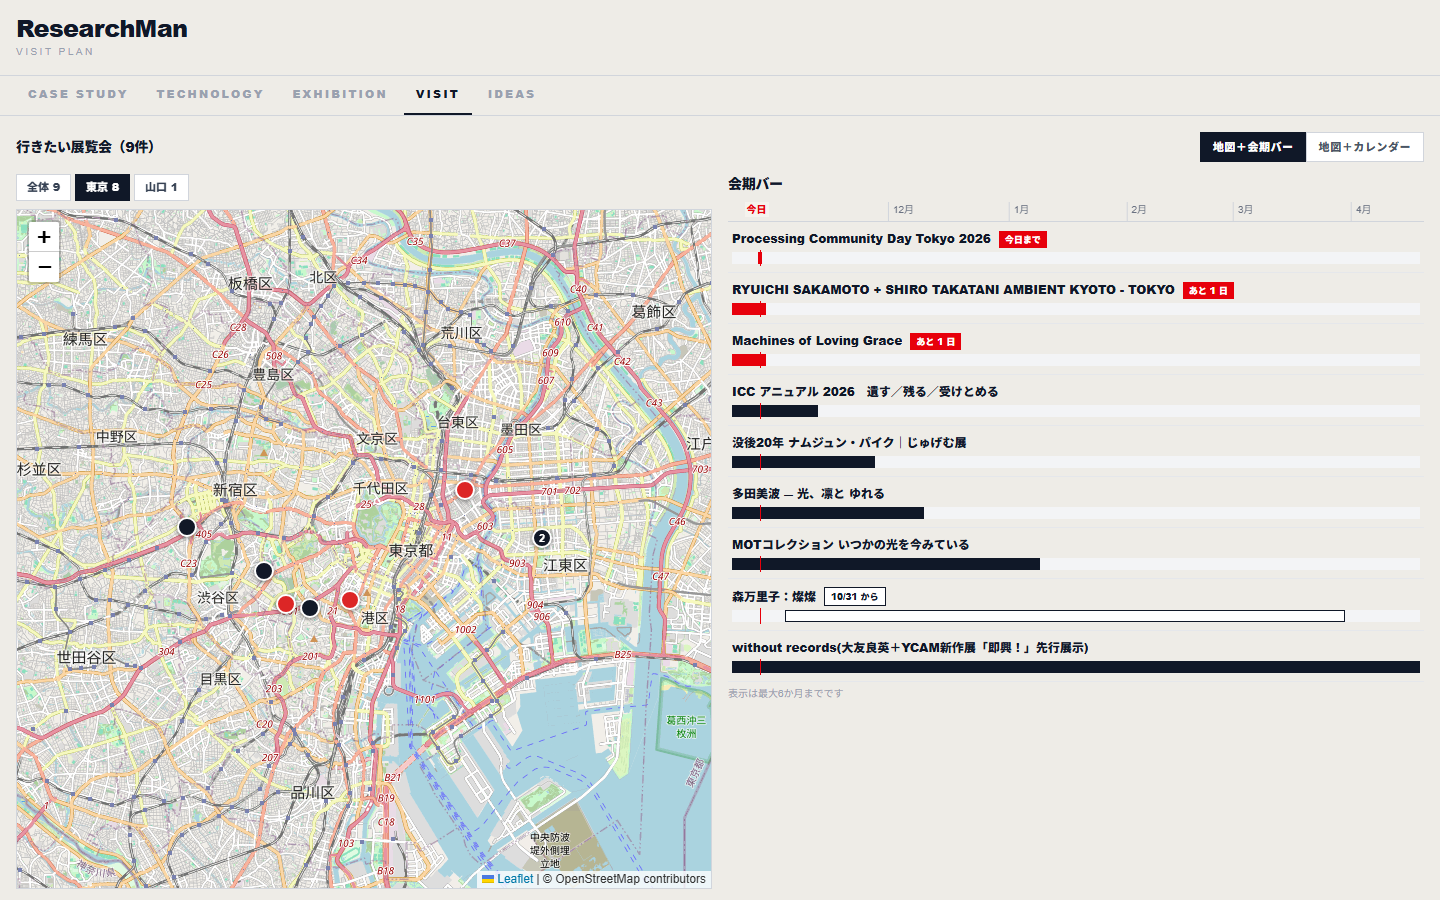
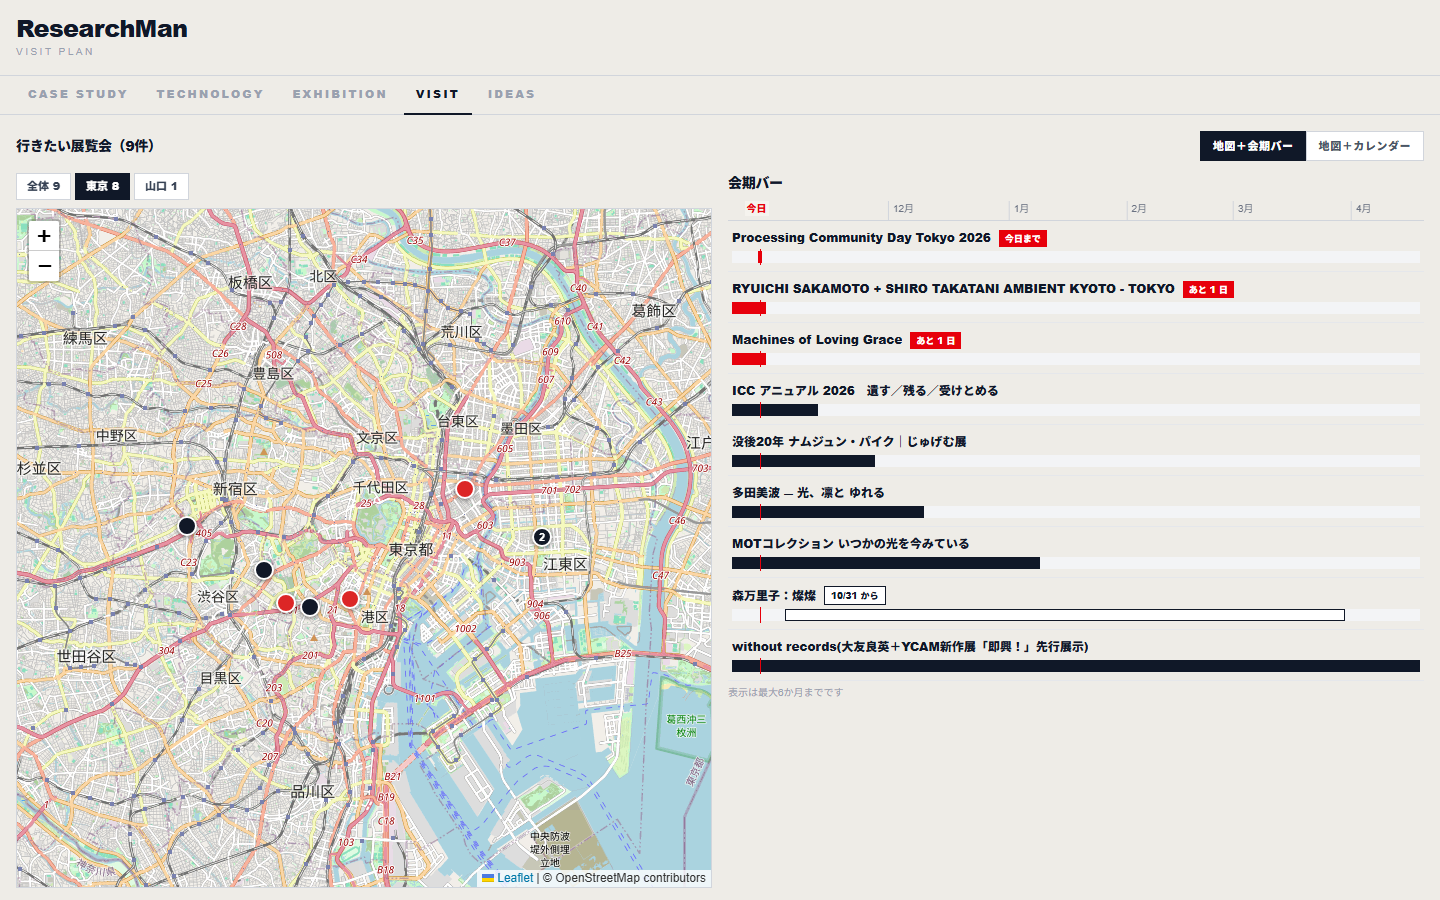
fix(visit): tab underline matches main, region key by venues, keep pan on view switch
Claude-Session: https://claude.ai/code/session_01LfmufxBMzLqXS66s4TTiNm

diff --git a/src/components/VisitClient.tsx b/src/components/VisitClient.tsx
@@ -60,20 +60,29 @@ export default function VisitClient({ items, geo, initialToday, initialView }: P
 
   // 地域グループ（50km 以内で連結）。初期表示は最大グループ、チップで切替
   const clusters = useMemo(() => clusterPins(pins, 50), [pins]);
-  // 選択は地域ラベルで保持。該当が無くなったら最大グループに正規化
-  const [regionSel, setRegionSel] = useState<string | null>(null); // null=最大グループ, "all"=全体, それ以外=ラベル
+  // 選択はグループ内ピンの会場名で保持（都道府県ラベルは重複しうる）。該当が無くなったら最大グループに正規化
+  const [regionSel, setRegionSel] = useState<string[] | "all" | null>(null); // null=最大グループ, "all"=全体
   const [fitNonce, setFitNonce] = useState(0);
   const mapBoxRef = useRef<HTMLDivElement>(null);
   const activeCluster = useMemo(() => {
     if (regionSel === "all") return -1;
-    const i = regionSel === null ? -1 : clusters.findIndex((c) => c.label === regionSel);
-    return i >= 0 ? i : 0;
+    if (regionSel === null) return 0;
+    let best = -1;
+    let bestN = 0;
+    clusters.forEach((c, i) => {
+      const n = c.pins.filter((p) => regionSel.includes(p.venue)).length;
+      if (n > bestN) {
+        best = i;
+        bestN = n;
+      }
+    });
+    return best >= 0 ? best : 0;
   }, [regionSel, clusters]);
   const fitPins = useMemo(
     () => (activeCluster < 0 ? pins : (clusters[activeCluster]?.pins ?? pins)),
     [activeCluster, clusters, pins],
   );
-  const pickRegion = useCallback((sel: string) => {
+  const pickRegion = useCallback((sel: string[] | "all") => {
     setRegionSel(sel);
     setFitNonce((n) => n + 1);
   }, []);
@@ -85,11 +94,12 @@ export default function VisitClient({ items, geo, initialToday, initialView }: P
 
   const changeView = useCallback((v: VisitView) => {
     setView(v);
-    changeDateFilter(null);
+    // 日付絞り込みが実際に解除される時だけ地図を fit し直す（パン/ズームを保つ）
+    if (dateFilter) changeDateFilter(null);
     try {
       window.history.replaceState(null, "", `?view=${v}`);
     } catch {}
-  }, [changeDateFilter]);
+  }, [dateFilter, changeDateFilter]);
 
   // 項目（リスト・バー）を押す: 強調 + 地図をその会場へ
   const selectItem = useCallback(
@@ -97,7 +107,8 @@ export default function VisitClient({ items, geo, initialToday, initialView }: P
       setHighlightIds([e.id]);
       // スマホ幅（lg 未満）は地図が画面外ならスクロールで見せる
       const box = mapBoxRef.current;
-      if (box && window.innerWidth < 1024) {
+      const located = pins.some((p) => p.items.some((x) => x.id === e.id));
+      if (box && located && window.innerWidth < 1024) {
         const r = box.getBoundingClientRect();
         if (r.top < 0 || r.bottom > window.innerHeight) box.scrollIntoView({ behavior: "smooth", block: "center" });
       }
@@ -173,7 +184,7 @@ export default function VisitClient({ items, geo, initialToday, initialView }: P
                 </button>
               )}
               {clusters.map((c, i) => (
-                <button key={`${c.label}-${i}`} type="button" aria-pressed={activeCluster === i} onClick={() => pickRegion(c.label)} className={chipClass(activeCluster === i)}>
+                <button key={`${c.label}-${i}`} type="button" aria-pressed={activeCluster === i} onClick={() => pickRegion(c.pins.map((p) => p.venue))} className={chipClass(activeCluster === i)}>
                   {c.label} {c.count}
                 </button>
               ))}
@@ -181,7 +192,7 @@ export default function VisitClient({ items, geo, initialToday, initialView }: P
           )}
           <div ref={mapBoxRef} className="relative h-[320px] lg:h-[calc(100vh-220px)] lg:min-h-[420px] border border-gray-300 bg-gray-100">
             <VisitMap pins={pins} fitPins={fitPins} fitNonce={fitNonce} highlightedVenue={highlightVenue} focus={focus} onPinSelect={selectPin} />
-            {dateFilter && mapItems.length === 0 && (
+            {dateFilter && pins.length === 0 && (
               <p role="status" className="absolute inset-x-4 top-4 z-[1000] bg-white/95 border border-gray-300 px-3 py-2 text-[12px] font-black text-gray-700 text-center">
                 この日に開いている展覧会はありません
               </p>

diff --git a/src/components/TopTabs.tsx b/src/components/TopTabs.tsx
@@ -13,7 +13,7 @@ export default function TopTabs({ active }: { active: "cases" | "tech" | "exhibi
   return (
     <nav
       aria-label="アーカイブ切替"
-      className="max-w-[1600px] mx-auto px-4 flex items-stretch gap-0.5 sm:gap-1 overflow-x-auto overflow-y-hidden"
+      className="max-w-[1600px] mx-auto px-4 -mb-px flex items-stretch gap-0.5 sm:gap-1 overflow-x-auto overflow-y-hidden"
     >
       {tabs.map((t) => (
         <Link
